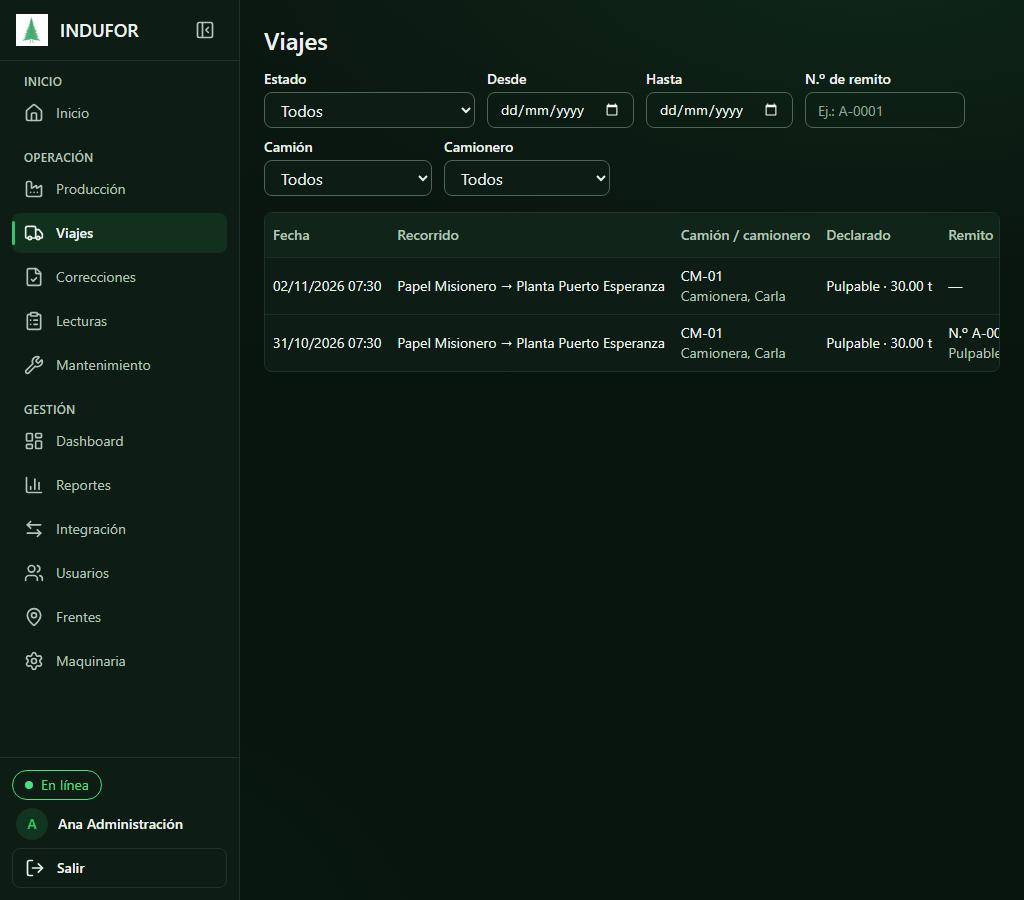
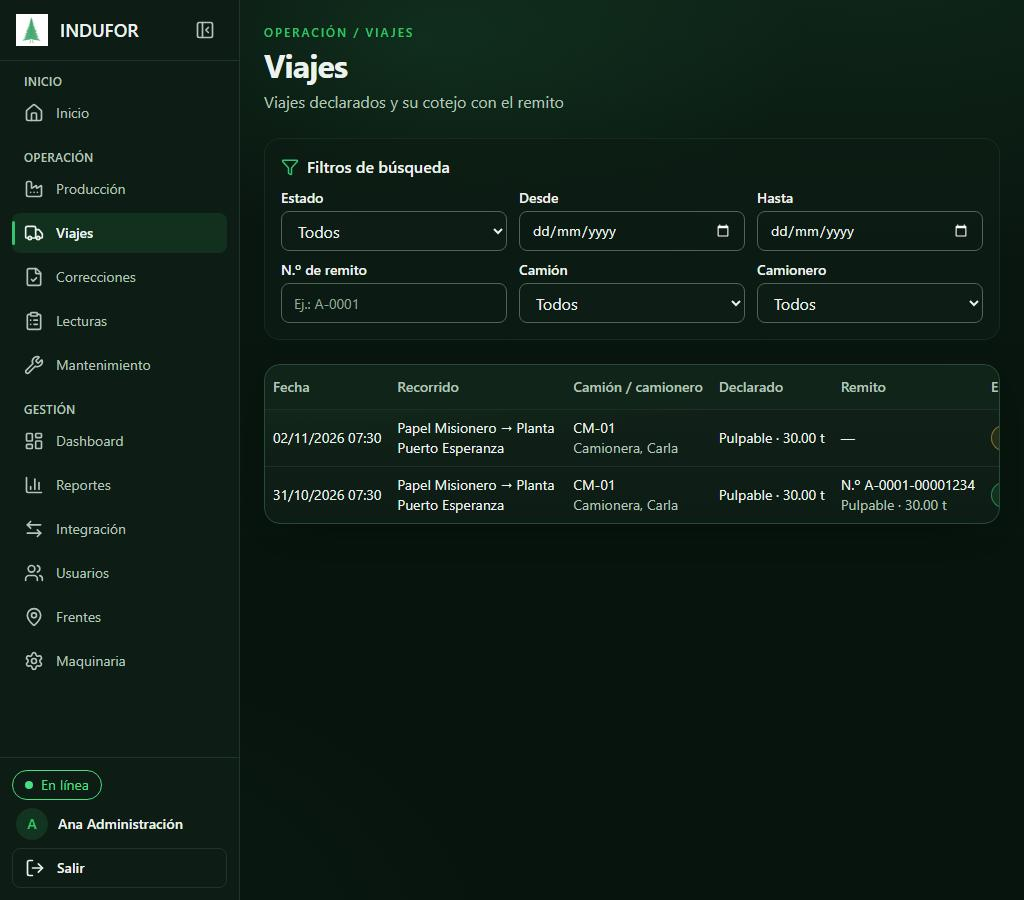
docs(forest-depth): vistas migradas, capturas de todas las pantallas y pendientes

diff --git a/docs/forest-depth.md b/docs/forest-depth.md
@@ -2,7 +2,7 @@
 
 > Evolución visual de la interfaz existente (2026-11-03). **No cambia** reglas de negocio, endpoints, permisos, base de datos ni arquitectura.
 > Fuente de verdad de color: `docs/design-tokens.md` (tema oscuro "bosque", que se conserva). Este documento agrega la capa de profundidad y los componentes compartidos.
-> Estado: **Fase 1 (fundamentos) y piloto Producción hechos.** El resto de los módulos se migra por fases (ver al final).
+> Estado: **aplicado a todas las vistas** (2026-11-03): fundamentos, piloto Producción y migración del resto de los módulos. El login conserva su diseño propio.
 
 ## Principios
 
@@ -65,26 +65,43 @@ Las cifras de producción, consumos y lecturas van siempre con `tabular-nums`, a
 | Componente | Para qué | Cuándo **no** |
 |---|---|---|
 | `PageHeader` | Eyebrow, h1, descripción, acción principal y contexto (`children`). `fondo` opcional para la variante forestal | No poner una foto en pantallas de campo ni en formularios |
-| `KpiCard` | Ícono, título, número protagonista y detalle. `to` la vuelve enlace con hover y foco. `tono` es `neutro` por defecto | No convertir todo KPI en alerta: el `tono` semántico va solo cuando el dato lo amerita |
-| `FilterPanel` + `controlSelect` | Panel de filtros con etiquetas removibles y "Limpiar filtros". Grilla de 2, 3 y 6 columnas | Para formularios de carga no: es para consultar |
+| `KpiCard` | Ícono opcional, título, número protagonista y detalle. `to` la vuelve enlace con hover y foco; el nombre accesible sale del texto visible (sin `aria-label`). `tono` es `neutro` por defecto. `vertical` para grillas de muchas tarjetas o valores largos | No convertir todo KPI en alerta: el `tono` semántico va solo cuando el dato lo amerita |
+| `FilterPanel` + `controlSelect` | Panel de filtros con etiquetas removibles opcionales y "Limpiar filtros" (con `activos` o con `limpiable`). Grilla de 2, 3 y 6 columnas (`columnas` para cambiarla) | Para formularios de carga no: es para consultar |
 | `TablaPanel` + `FilaEstado` | Panel con título y contador; filas de carga (`status`), vacío y error (`alert`) del mismo alto | No transformar tablas en tarjetas por defecto |
 | `StatusBadge` | Estado con texto obligatorio, tono semántico e ícono decorativo opcional | El color nunca comunica solo |
 
 **Base shadcn ajustada (global):**
 - `ui/table`: encabezado `--table-head` con texto `text-soft` medium, separadores `--separator-soft`, hover `--card-hover` (teñido de marca) y encabezados de 44 px.
 - `ui/dialog`: `surface-elevated`, con radio de 16 px.
+- `ui/button`: variante `destructive-outline` (borde y texto `danger`) para acciones destructivas dentro de filas; la `destructive` llena queda para confirmaciones.
 - **Sidebar:** el activo lleva `bg-brand/12` y una barra de marca de 3 px. La sesión muestra la inicial en un círculo. La navegación, los permisos, el plegado y el menú móvil no cambiaron.
-- **Layout:** `canvas-ambient`.
+- **Layout:** `canvas-ambient` e `isolate`. Las capas decorativas del encabezado (foto y resplandor) usan `-z-10` sin contexto propio: se pintan sobre el canvas y **debajo de todo el contenido**, sin depender de que cada tarjeta sea `relative`.
 
 ### Foto del encabezado
 
 - Archivo: `frontend/public/header-bosque.webp` (2172 × 724, 404 KB).
 - Se extiende hasta el borde superior y derecho del área de contenido. El contenedor recorta lo que sobra con `overflow-x-clip`, sin scroll horizontal.
 - Se funde con una **máscara de transparencia** hacia la izquierda y hacia abajo (utilidad `header-photo`), oscurecida con `brightness(.62)`. No se usa un velo de color: un velo del color del canvas dejaba un rectángulo visible sobre la luz ambiental (corrección del 2026-11-03).
-- Las tarjetas que siguen se pintan por encima de la foto: `surface` es `position: relative`.
 - **No se muestra ni se descarga en el celular** (< 640 px): la capa es `hidden sm:block`.
 - **Fuera del precache de la PWA:** `globPatterns` no incluye `.webp`. Verificado en `dist/sw.js`.
 - Si el archivo falta, el encabezado sigue funcionando.
+
+## Vistas migradas
+
+| Vista | Encabezado | Componentes |
+|---|---|---|
+| Inicio | `PageHeader` con foto; fecha y estado de actualización como acción | `KpiCard` por gravedad (crítico, atención, seguimiento, neutro), paneles `surface`, accesos `surface-interactive` |
+| Producción | `PageHeader` con foto | `KpiCard`, `FilterPanel` con etiquetas, `TablaPanel`, `StatusBadge` de madera |
+| Dashboard | `PageHeader` con foto | `KpiCard vertical` con ícono; alerta con ⚠ y tono atención |
+| Viajes | `PageHeader` | `FilterPanel` (limpiable), tabla `surface`, `StatusBadge` de validación |
+| Correcciones | `PageHeader` | Tarjetas `surface`, `StatusBadge` de la solicitud |
+| Lecturas, Panel técnico, Historial | `PageHeader` | Tablas `surface`, `StatusBadge` de matafuego (`TONO_MATAFUEGO`) |
+| Reportes | `PageHeader` | Pestañas con la marca, filtros `surface-quiet`, `StatusBadge` en viajes |
+| Integración | `PageHeader` | Paneles `surface`, `StatusBadge` de lote |
+| Usuarios, Frentes, Maquinaria | `PageHeader` con acciones | `FilterPanel` (limpiable), tabla `surface`, `StatusBadge` activo/deshabilitado, `destructive-outline` |
+| Formularios de campo (parte, viaje, lectura, matafuego) | `PageHeader` "Campo" sin foto, con el estado de conexión | Sin cambios en el formulario ni en la barra de envío: prioridad a la claridad |
+
+Los textos de los h1, labels, botones y estados no cambiaron (los tests y E2E los usan). Cada mapa de estados (`ESTADOS`, `ESTADOS_LOTE`, solicitudes, matafuegos) suma su `tono`, sin perder el texto ni el símbolo.
 
 ## Piloto: Producción
 
@@ -98,23 +115,21 @@ La funcionalidad y los nombres accesibles son los mismos que antes.
 
 ## Capturas
 
-Son del sistema real (dev server, usuario de demo Ana) a 1440, 1024, 768 y 390 px: `docs/forest-depth/capturas/antes/` y `docs/forest-depth/capturas/despues/`.
+Son del sistema real (dev server, usuario de demo Ana): Login, Inicio, Producción y Viajes a 1440, 1024, 768 y 390 px, y el resto de las vistas a 1440 px (solo en `despues/`). Carpetas: `docs/forest-depth/capturas/antes/` y `docs/forest-depth/capturas/despues/`.
 
 Se regeneran con `node scripts/capturas-forest-depth.mjs <carpeta>` desde `frontend/`, con el front y el back levantados.
 
-## Verificación de esta fase
+## Verificación
 
 - Vitest 93/93, typecheck, lint y build.
 - Playwright 45/45, con axe sin violaciones graves en todas las rutas, y offline 2/2.
-- Precache: de 1284 a 1308 KiB (+24 KiB de CSS y componentes). La foto queda afuera.
+- Precache: de 1284 a 1309 KiB (+25 KiB de CSS y componentes). La foto queda afuera.
+- Sin scroll horizontal de página en las vistas revisadas (1440 y 390 px).
 
-## Pendientes y orden de migración
+## Pendientes
 
-1. **Inicio:** pasar `Tarjeta` a `KpiCard` y el encabezado a `PageHeader` (foto opcional). Corregir las flechas de "Acciones frecuentes", que se salen de su tarjeta.
-2. **Viajes y Correcciones:** `ESTADOS` y `ESTADO_SOLICITUD` a `StatusBadge` (pendiente, validado, corrección); filtros a `FilterPanel` y tablas a `TablaPanel`.
-3. **Lecturas y Mantenimiento:** fallas, matafuegos (vencido o atendido) e historial con `StatusBadge` y `TablaPanel`. Los formularios de campo solo reciben superficies.
-4. **Dashboard y Reportes:** `KpiCard` y `PageHeader` con foto opcional; `ESTADOS_LOTE` a `StatusBadge`.
-5. **Integración, Maquinaria, Frentes y Usuarios:** encabezados (15 h1 todavía con `text-2xl font-semibold`), paneles, selects con `controlSelect` (10 todavía con `h-9`) y errores (13 con `<p role="alert">` sueltos).
-6. **Botón destructivo:** en tablas con muchas filas (Usuarios) el bloque salmón lleno se ve pesado. Evaluar una variante de contorno para las acciones destructivas en filas, conservando el contraste.
-7. **Optimizar `header-bosque.webp`:** por ejemplo a 1600 px de ancho con calidad 70 (≈ 120–150 KB). No se tocó porque es un asset del usuario.
-8. **React Bits** (CountUp, SpotlightCard, etc.): sigue sin instalar. Evaluarlo solo para el Dashboard, si aporta.
+1. **Optimizar `header-bosque.webp`:** por ejemplo a 1600 px de ancho con calidad 70 (≈ 120–150 KB). No se tocó porque es un asset del usuario.
+2. **Tema claro:** los tokens de profundidad tienen valores para el claro, pero no se revisó en pantalla (la app usa el oscuro por defecto y no hay selector).
+3. **Diálogos y formularios internos** (alta de usuario, unidad, remito, corrección): heredan el nivel elevado y los bordes, pero sus selects siguen con `h-9`. Unificar con `controlSelect` si se quiere el mismo alto.
+4. **Tablas anchas** (Viajes con la columna Acciones): se desplazan dentro de su panel en pantallas angostas. Evaluar una vista compacta en celular si el uso en campo lo pide.
+5. **React Bits** (CountUp, SpotlightCard, etc.): sigue sin instalar. Evaluarlo solo para el Dashboard, si aporta.
